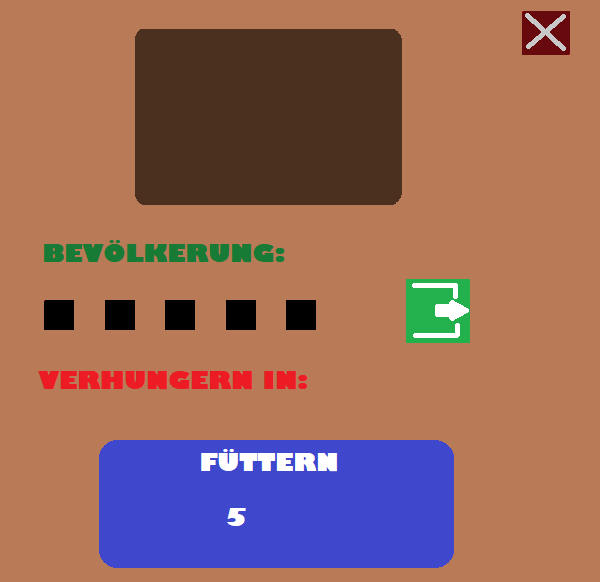
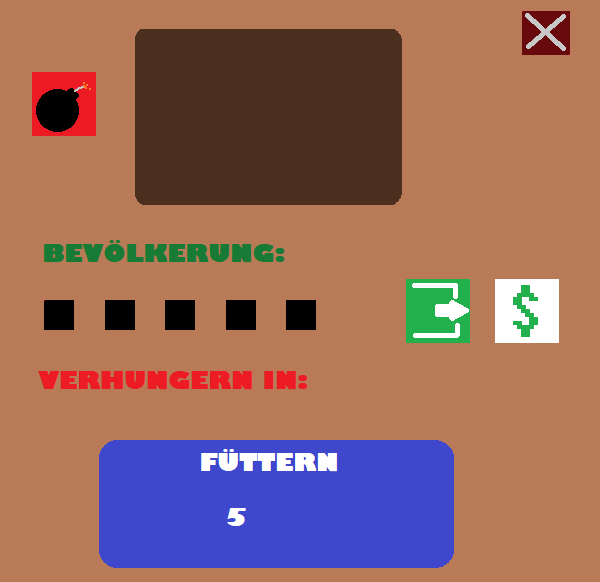
fertig

Changed region(s): [[0.03, 0.1237, 0.18, 0.2474], [0.81, 0.4639, 0.93, 0.5876]]

diff --git a/src/control/ProgramController.java b/src/control/ProgramController.java
@@ -40,6 +40,7 @@ public class ProgramController {
     private int animalCount;
     private BarnInfo barnInfo;
     private Inventory inventory;
+    private Knebi knebi;
     /**
      * Konstruktor
      * Dieser legt das Objekt der Klasse ProgramController an, das den Programmfluss steuert.
@@ -96,6 +97,13 @@ public class ProgramController {
 
         ((ShopButton)buttons[2]).addBuyButtonsToDrawingPanel();
 
+        knebi = new Knebi(1250,0,this);
+        uiController.drawObject(knebi);
+
+    }
+
+    public void setKnebiVisible(boolean a){
+        knebi.setVisible(a);
     }
 
     public SQLHandler getSQLhandler(){
@@ -220,6 +228,8 @@ public class ProgramController {
                     uiController.drawObject(g.getCoveringObject());
                     sqlHandler.addTree(g.gety()/50,g.getx()/50,"T",false,50);
                     redrawShop();
+                    redrawInventory();
+
                 }
                 break;
             case 2:
@@ -227,6 +237,8 @@ public class ProgramController {
                     uiController.drawObject(g.getCoveringObject());
                     sqlHandler.addTree(g.gety()/50,g.getx()/50,"B",false,50);
                     redrawShop();
+                    redrawInventory();
+
                 }
                 break;
             case 3:
@@ -234,6 +246,8 @@ public class ProgramController {
                     uiController.drawObject(g.getCoveringObject());
                     sqlHandler.addPlant("wheat",g.gety()/50,g.getx()/50);
                     redrawShop();
+                    redrawInventory();
+
                 }
                 break;
             case 4:
@@ -241,6 +255,8 @@ public class ProgramController {
                     uiController.drawObject(g.getCoveringObject());
                     sqlHandler.addPlant("carrot",g.gety()/50,g.getx()/50);
                     redrawShop();
+                    redrawInventory();
+
                 }
                 break;
             case 5:
@@ -248,77 +264,97 @@ public class ProgramController {
                     uiController.drawObject(g.getCoveringObject());
                     sqlHandler.addPlant("cherry",g.gety()/50,g.getx()/50);
                     redrawShop();
+                    redrawInventory();
+
                 }
                 break;
             case 6:
 
-                Barn a = new Barn("wurm", g.getx(),g.gety(),uiController,this,61,1000);
+                Barn a = new Barn("wurm", g.getx(),g.gety(),uiController,this,61,600);
                 if(g.plant(a)) {
                     sqlHandler.addBarn(g.gety() / 50, g.getx() / 50, "wurm");
                     uiController.drawObject(a);
                     redrawShop();
+                    redrawInventory();
+
                 }
                 break;
             case 7:
-                Barn b = new Barn("eichhoernchen", g.getx(),g.gety(),uiController,this,61,1000);
+                Barn b = new Barn("eichhoernchen", g.getx(),g.gety(),uiController,this,61,600);
                 if(g.plant(b)) {
                     sqlHandler.addBarn(g.gety() / 50, g.getx() / 50, "eichhoernchen");
                     uiController.drawObject(b);
                     redrawShop();
+                    redrawInventory();
+
                 }
                 break;
             case 8:
-                Barn c = new Barn("fuchs", g.getx(),g.gety(),uiController,this,61,1000);
+                Barn c = new Barn("fuchs", g.getx(),g.gety(),uiController,this,61,600);
                 if(g.plant(c)) {
                     sqlHandler.addBarn(g.gety() / 50, g.getx() / 50, "fuchs");
                     uiController.drawObject(c);
                     redrawShop();
+                    redrawInventory();
+
                 }
                 break;
             case 9:
-                Barn d = new Barn("hase", g.getx(),g.gety(),uiController,this,61,1000);
+                Barn d = new Barn("hase", g.getx(),g.gety(),uiController,this,61,600);
                 if(g.plant(d)) {
                     sqlHandler.addBarn(g.gety() / 50, g.getx() / 50, "hase");
                     uiController.drawObject(d);
                     redrawShop();
+                    redrawInventory();
+
                 }                break;
             case 10:
-                Barn e = new Barn("hirsch", g.getx(),g.gety(),uiController,this,61,1000);
+                Barn e = new Barn("hirsch", g.getx(),g.gety(),uiController,this,61,600);
                 if(g.plant(e)) {
                     sqlHandler.addBarn(g.gety() / 50, g.getx() / 50, "hirsch");
                     uiController.drawObject(e);
                     redrawShop();
+                    redrawInventory();
+
                 }                break;
             case 11:
-                Barn f = new Barn("schnecke", g.getx(),g.gety(),uiController,this,61,1000);
+                Barn f = new Barn("schnecke", g.getx(),g.gety(),uiController,this,61,600);
                 if(g.plant(f)) {
                     sqlHandler.addBarn(g.gety() / 50, g.getx() / 50, "schnecke");
                     uiController.drawObject(f);
                     redrawShop();
+                    redrawInventory();
+
                 }                break;
             case 12:
-                Barn h = new Barn("vogel", g.getx(),g.gety(),uiController,this,61,1000);
+                Barn h = new Barn("vogel", g.getx(),g.gety(),uiController,this,61,600);
                 if(g.plant(h)) {
                     sqlHandler.addBarn(g.gety() / 50, g.getx() / 50, "vogel");
                     uiController.drawObject(h);
                     redrawShop();
+                    redrawInventory();
+
                 }                break;
             case 13:
-                Barn i = new Barn("wildschwein", g.getx(),g.gety(),uiController,this,61,1000);
+                Barn i = new Barn("wildschwein", g.getx(),g.gety(),uiController,this,61,600);
                 if(g.plant(i)) {
                     sqlHandler.addBarn(g.gety() / 50, g.getx() / 50, "wildschwein");
                     uiController.drawObject(i);
                     redrawShop();
+                    redrawInventory();
+
                 }                break;
             case 14:
-                Barn j = new Barn("ziege", g.getx(),g.gety(),uiController,this,61,1000);
+                Barn j = new Barn("ziege", g.getx(),g.gety(),uiController,this,61,600);
                 if(g.plant(j)) {
                     sqlHandler.addBarn(g.gety() / 50, g.getx() / 50, "ziege");
                     uiController.drawObject(j);
                     redrawShop();
+                    redrawInventory();
                 }                break;
         }
     }
+
 
     public void setBarnInfoVisibility(boolean a){
 
@@ -499,6 +535,10 @@ public class ProgramController {
     public void redrawBarnInfo(BarnInfo barnInfo){
         uiController.removeObject(barnInfo);
         uiController.drawObject(barnInfo);
+    }
+    public void redrawInventory(){
+        uiController.removeObject(inventory);
+        uiController.drawObject(inventory);
     }
 
     /**

diff --git a/src/model/GameObjects/BarnInfo.java b/src/model/GameObjects/BarnInfo.java
@@ -72,9 +72,17 @@ public class BarnInfo extends GraphicalObject {
             if(!b.getStarving())drawTool.setCurrentColor(0,0,0,255);
 
             if(b.getMultiStarving()!=0) {
-                drawTool.drawText(x + 333, y + 385, "" + (int) (b.getStarvingTime() / b.getMultiStarving()));
+                if(b.getStarvingTime()%60>=10){
+                    drawTool.drawText(x + 333, y + 385, "" + (int) ((b.getStarvingTime() / b.getMultiStarving())/60)+":"+(int)((b.getStarvingTime() / b.getMultiStarving())%60));
+                }else{
+                    drawTool.drawText(x + 333, y + 385, "" + (int) ((b.getStarvingTime() / b.getMultiStarving())/60)+":0"+(int)((b.getStarvingTime() / b.getMultiStarving())%60));
+                }
             }else{
-                drawTool.drawText(x + 333, y + 385, "" + (int) (b.getStarvingTime()));
+                if(b.getStarvingTime()%60>=10){
+                    drawTool.drawText(x + 333, y + 385, "" + (int) (b.getStarvingTime()/60)+":"+(int)(b.getStarvingTime()%60));
+                }else{
+                    drawTool.drawText(x + 333, y + 385, "" + (int) (b.getStarvingTime()/60)+":0"+(int)(b.getStarvingTime()%60));
+                }
 
             }
 
@@ -91,19 +99,19 @@ public class BarnInfo extends GraphicalObject {
                     switch (b.getFood()){
                         case "cherry":
                             if(pc.getSqlHandler().getCherries() >= 5){
-                                b.addStarvingTime(5000);
+                                b.addStarvingTime(300);
                                 pc.getSqlHandler().changeCherriesByAmount(-5);
                             }
                             break;
                         case "wheat":
                             if(pc.getSqlHandler().getWheat() >= 5){
-                                b.addStarvingTime(5000);
+                                b.addStarvingTime(300);
                                 pc.getSqlHandler().changeWheatByAmount(-5);
                             }
                             break;
                         case "carrot":
                             if(pc.getSqlHandler().getCarrots() >= 5){
-                                b.addStarvingTime(5000);
+                                b.addStarvingTime(300);
                                 pc.getSqlHandler().changeCarrotsByAmount(-5);
                             }
                             break;
@@ -113,13 +121,22 @@ public class BarnInfo extends GraphicalObject {
 
 
                 if (e.getX() > x + 522 && e.getX() < x + 569 && e.getY() > y + 11 && e.getY() < y + 54) {
-                    visible = false;
+                    setVisible(false);
                 }
 
                 if (e.getX() > x + 406 && e.getX() < x + 469 && e.getY() > y + 280 && e.getY() < y + 342) {
                     if (pc.checkFreeAnimalPlaces()&&b.getAllAnimals()>0) {
                         pc.freeAnimal(b.removeAnimal(),this);
                     }
+                }
+                if(e.getX()>x+495&&e.getX()<x+560&&e.getY()>y+280&&e.getY()<y+342&&b.getAllAnimals()>0){
+                    b.removeAnimal();
+                    pc.addCash(200);
+                }
+                if(e.getX()>x+32&&e.getY()>y+72&&e.getX()<x+95&&e.getY()<y+135){
+                    b.removeThisBarn();
+                    pc.addCash(1000);
+                    pc.addWood(800);
                 }
             }
         }

diff --git a/src/model/GameObjects/Knebi.java b/src/model/GameObjects/Knebi.java
@@ -1,0 +1,61 @@
+package model.GameObjects;
+
+import control.Config;
+import control.ProgramController;
+import control.framework.UIController;
+import model.framework.GraphicalObject;
+import view.framework.DrawTool;
+
+import javax.imageio.ImageIO;
+import java.awt.event.MouseEvent;
+import java.awt.image.BufferedImage;
+import java.io.File;
+import java.io.IOException;
+
+public class Knebi extends GraphicalObject {
+
+    private boolean klicked = false;
+    private BufferedImage info;
+    private boolean visible = false;
+    private ProgramController pc;
+
+
+    public Knebi(double x, double y, ProgramController pc){
+        this.x = x;
+        this.y = y;
+        this.pc = pc;
+
+        createAndSetNewImage("assets/images/UiImages/knebi.png");
+        try{
+        info = ImageIO.read(new File("assets/images/UiImages/StarvingText.png"));
+        } catch (IOException e) {
+            if (Config.INFO_MESSAGES) System.out.println("Laden eines Bildes fehlgeschlagen");
+        }
+    }
+
+
+    public void draw(DrawTool drawTool) {
+        drawTool.drawImage(getMyImage(),x,y);
+        if(visible)drawTool.drawImage(info,x-448,y+50);
+    }
+
+    @Override
+    public void update(double dt) {
+
+    }
+
+
+    public void mouseReleased(MouseEvent e){
+
+        if(e.getX()>x&&e.getX()<x+35&&e.getY()>y&&e.getY()<y+49){
+            if(!klicked&&visible) {
+                setVisible(false);
+            }
+            klicked = !klicked;
+        }
+    }
+
+    public void setVisible(boolean a){
+        visible = a;
+    }
+}

diff --git a/src/model/GameObjects/Barn.java b/src/model/GameObjects/Barn.java
@@ -118,8 +118,11 @@ public class Barn extends ProducingObject {
         }
 
         if(starvingTime<=0){
-            pc.removeBarn(this);
-        }
+            removeThisBarn();
+
+
+            pc.setKnebiVisible(true);
+                 }
 
 
         if(time < 200&&getAllAnimals()>0){
@@ -131,8 +134,19 @@ public class Barn extends ProducingObject {
             sign.setVisibility(true);
         }
 
-        sign.setnewX(x);
-        sign.setnewY(y);
+        if(sign!=null)sign.setnewX(x);
+        if(sign!=null)sign.setnewY(y);
+    }
+
+    public void removeThisBarn(){
+        pc.removeBarn(this);
+        barnInfo.setVisible(false);
+        ui.removeObject(sign);
+        sign = null;
+    }
+    public void redrawSign(){
+        ui.removeObject(sign);
+        ui.drawObject(sign);
     }
 
     public void setnewTime(double a){

diff --git a/src/model/GameObjects/Sign.java b/src/model/GameObjects/Sign.java
@@ -57,8 +57,8 @@ public class Sign extends GraphicalObject {
     public void mouseReleased(MouseEvent e){
         if(e.getX()>x&&e.getX()<x+50&&e.getY()>y&&e.getY()<y+60&&visible){
             setVisibility(false);
-            if(animal!=null)animal.setTime(60);
-            if(b!=null) b.setnewTime(60);
+            if(animal!=null)animal.setTime(90);
+            if(b!=null) b.setnewTime(90);
             if(animal!=null)pc.addCash(animal.getPrice()*3);
             if(b!=null)pc.addCash(b.getPrice()*2);
 

diff --git a/src/model/GameObjects/UserInterface.java b/src/model/GameObjects/UserInterface.java
@@ -25,9 +25,9 @@ public class UserInterface extends GraphicalObject  {
         super.draw(drawTool);
         drawTool.drawImage(getMyImage(),x,y);
         drawTool.setCurrentColor(255,255,255,255);
-        drawTool.drawText(120, 32, cash+"$");
-        drawTool.drawText(340,32,wood+"");
-        drawTool.drawText(560,32, harmony +"");
+        drawTool.drawText(470, 32, cash+"$");
+        drawTool.drawText(690,32,wood+"");
+
     }
 
     public void addCash(int amount){

diff --git a/src/control/SQLHandler.java b/src/control/SQLHandler.java
@@ -31,7 +31,7 @@ public class SQLHandler {
             Connection con = DriverManager.getConnection("jdbc:mysql://mysql.webhosting24.1blu.de/db85565x2810214?useUnicode=true&useJDBCCompliantTimezoneShift=true&useLegacyDatetimeCode=false&serverTimezone=UTC", "s85565_2810214", "kkgbeste");
             stmt = con.createStatement();
 
-            //dropAll();
+            dropAll();
 
             try{
                 stmt.execute("CREATE TABLE JA_Farmer(" +

diff --git a/src/model/GameObjects/Animal.java b/src/model/GameObjects/Animal.java
@@ -49,6 +49,10 @@ public class Animal extends GraphicalObject {
             imageSet = true;
         }
     }
+    public void redrawSign(){
+        ui.removeObject(sign);
+        ui.drawObject(sign);
+    }
 
     public void update(double dt){
         moveCounter = moveCounter - dt;
